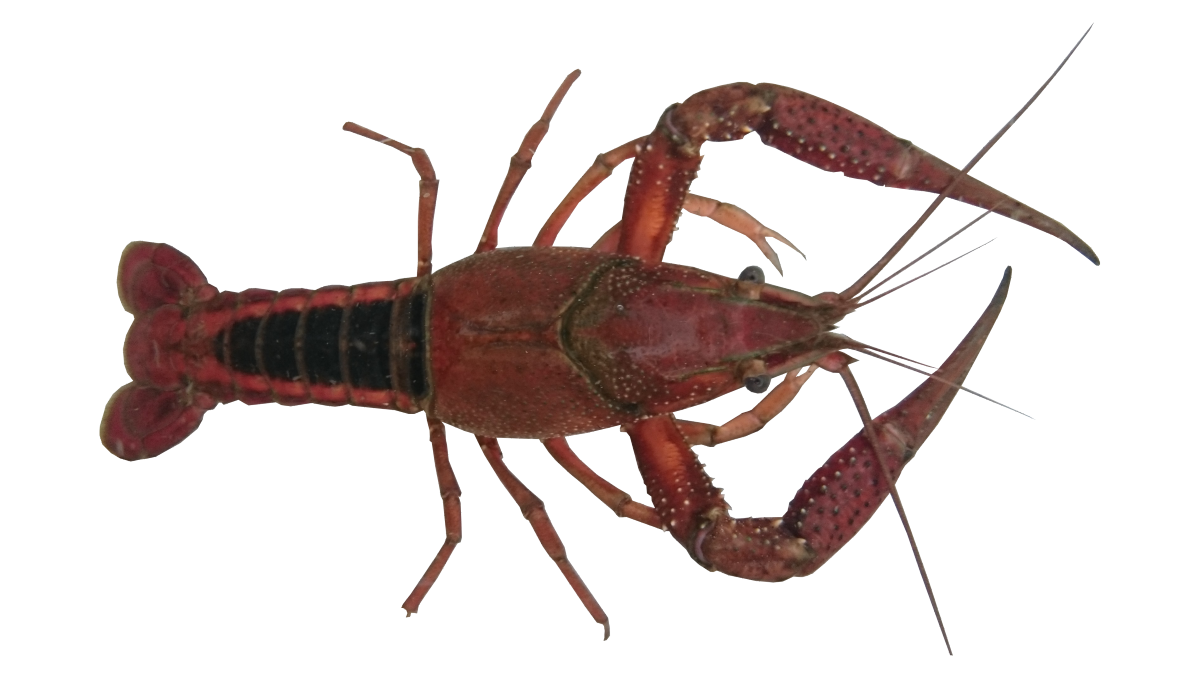
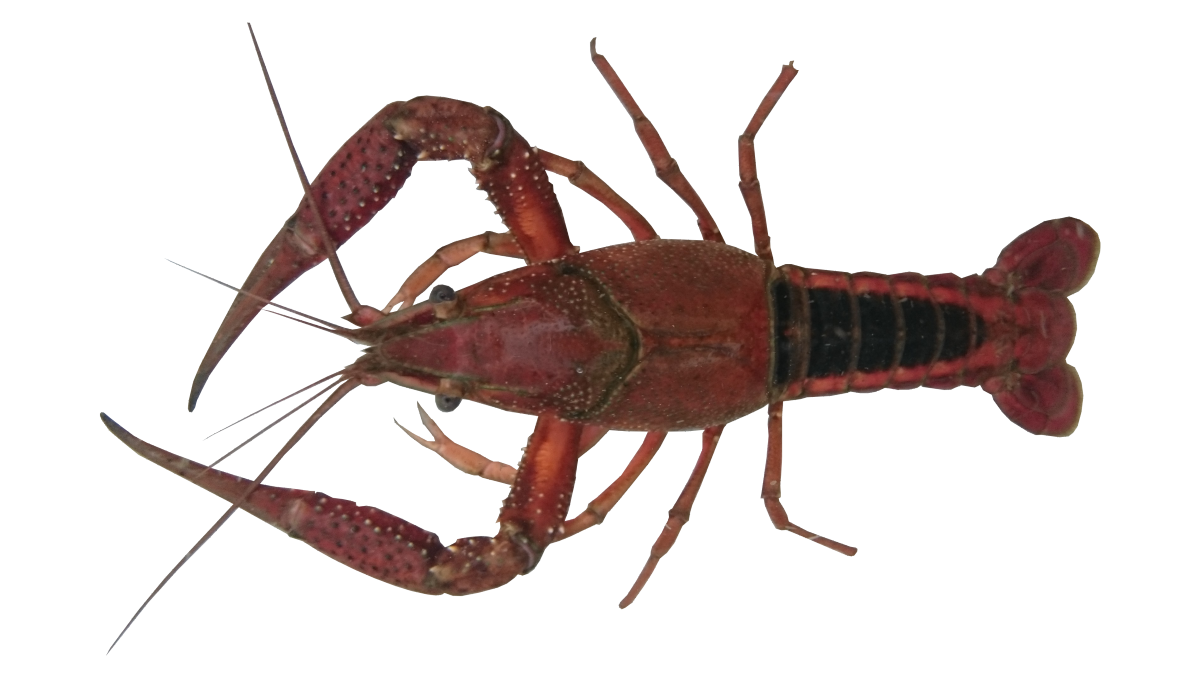
foto P. acutus

diff --git a/pages/soorten/index.md b/pages/soorten/index.md
@@ -25,6 +25,6 @@ pages:
   background: /assets/images/p_virginalis_wit.png
   url: /soorten/procambarus-virginalis/
 - title: Gestreepte Amerikaanse rivierkreeft
-  background: /assets/images/gestreepte.jpg
+  background: /assets/images/p_acutus_wit.jpg
   url: /soorten/procambarus-acutus/
 ---
